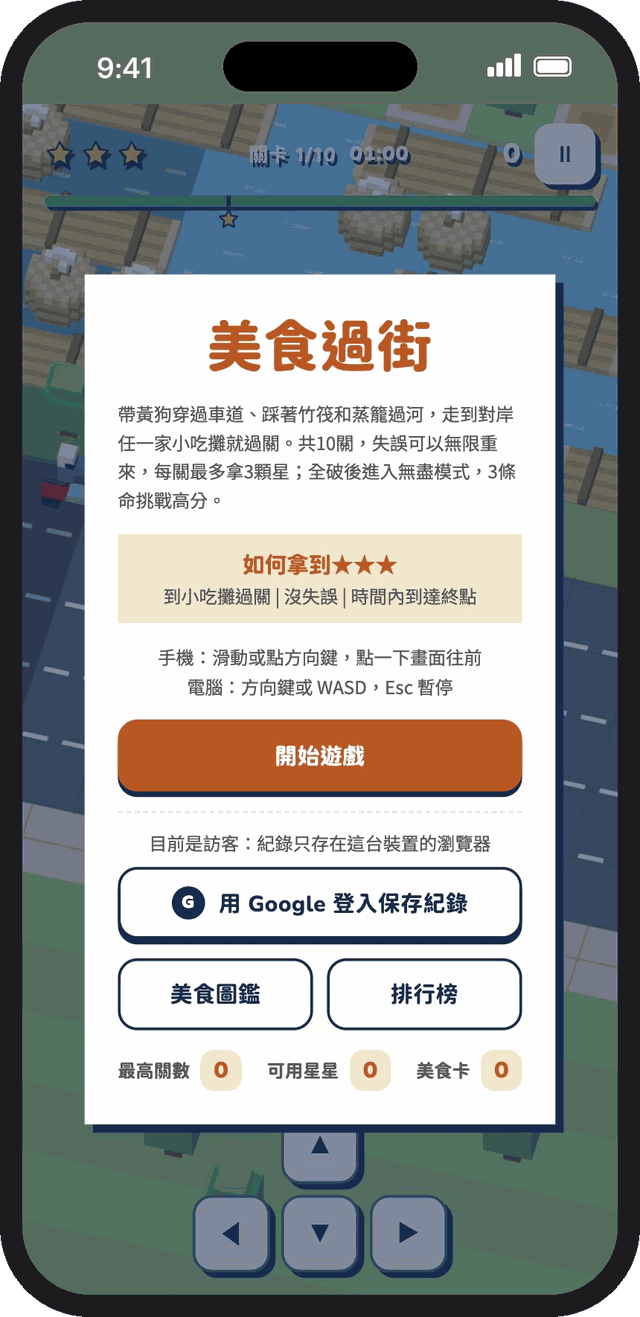
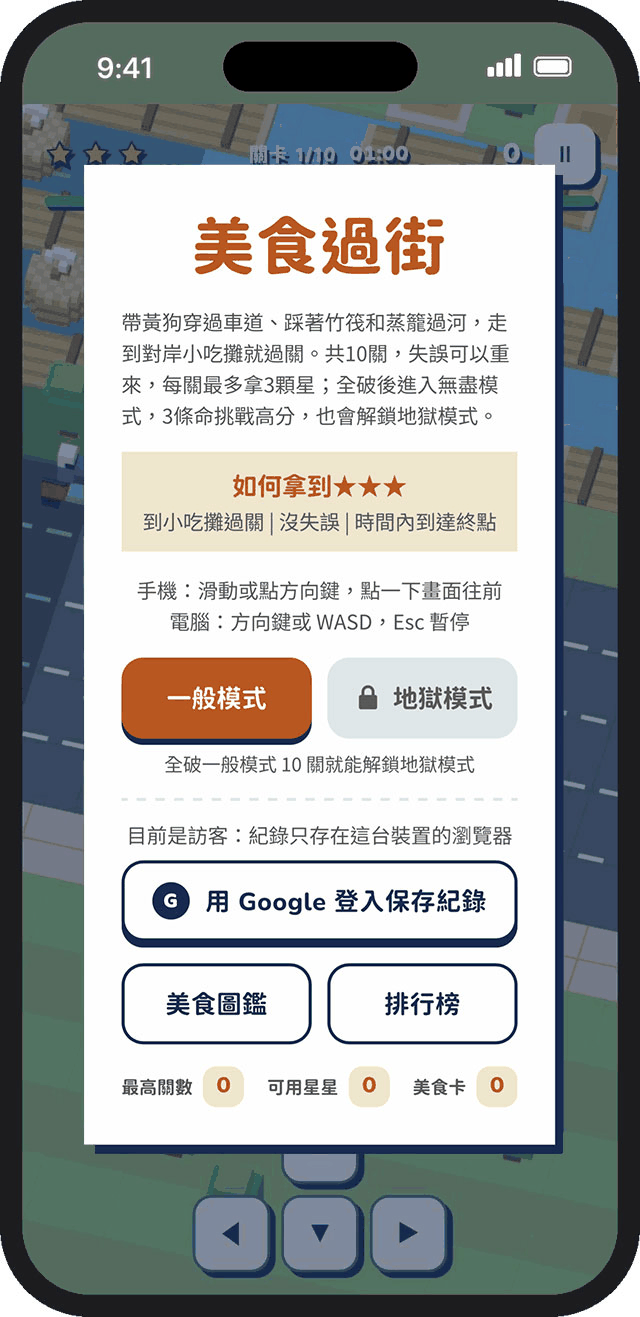
style(fofo,packplan): FAQ 與頁尾間距對齊標籤間距，更新美食過街第二張截圖
- FAQ 為頁面最後一段（無 CTA）時，最後一題到頁尾的距離改為 20px，與「常見問題」標籤到第一題一致
- 更新美食過街介紹頁 02 截圖

Changed region(s): [[0.125, 0.1245, 0.9062, 0.9028], [0.0625, 0.3424, 0.0938, 0.4047]]

diff --git a/assets/style.css b/assets/style.css
@@ -639,6 +639,8 @@ img { max-width: 100%; display: block; }
 
 /* ---------- FAQ ---------- */
 .faq { padding: 36px 0 0; }
+/* FAQ 為頁面最後一段（無 CTA）時：與頁尾的距離 = 標籤到第一題的 20px（12 + 頁尾 margin-top 8） */
+.faq:last-child { padding-bottom: 12px; }
 .faq-list { display: flex; flex-direction: column; gap: 10px; }
 .faq-item {
   background: var(--bg-card);
